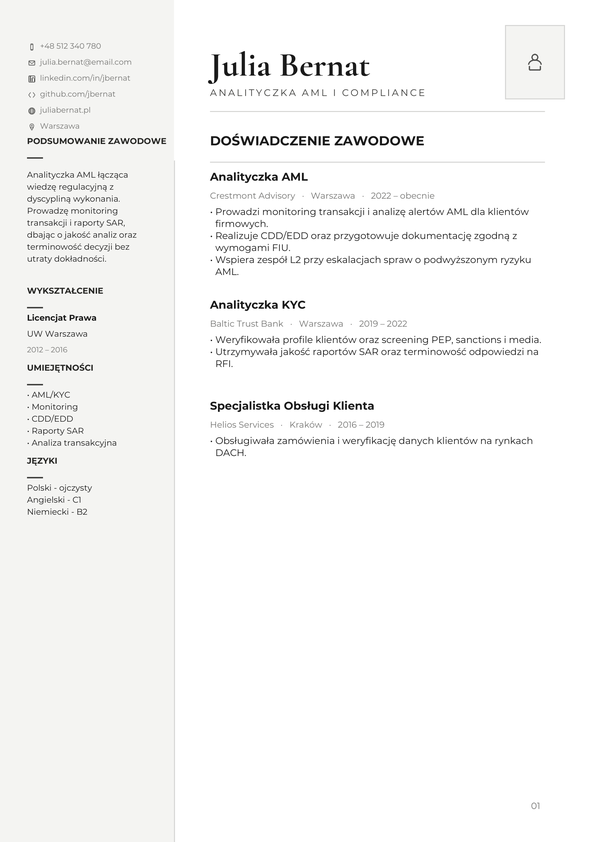
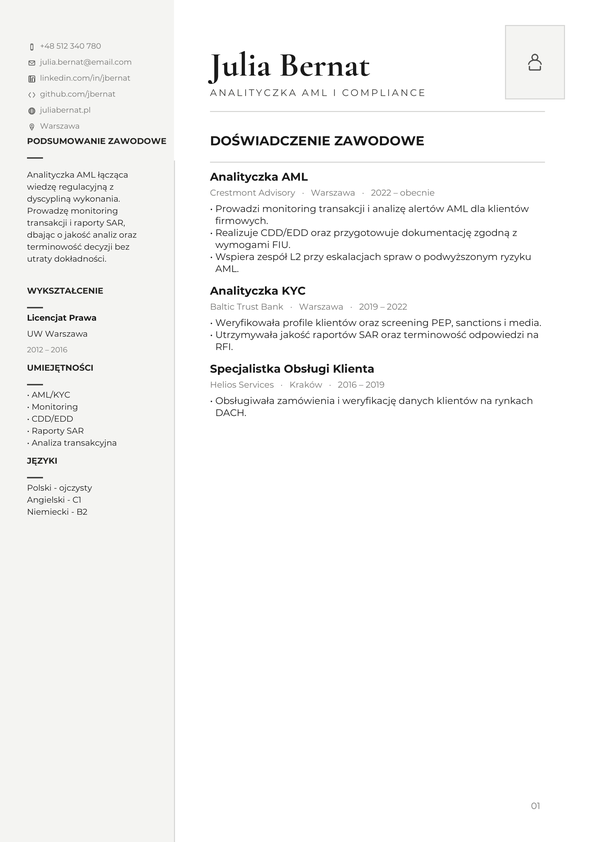
vestige

Changed region(s): [[0.3328, 0.2162, 0.9076, 0.5558]]

diff --git a/frontend/src/templates/vestige.js b/frontend/src/templates/vestige.js
@@ -233,7 +233,7 @@ const VESTIGE_ELEMENTS = [
     "bulletList": false,
     "autoHeight": true,
     "preserveInitialLayout": true,
-    "flowGroup": "record-ea3fde685e10",
+    "flowGroup": "record-5596495821c2",
     "flowRole": "content",
     "flowLane": "sidebar"
   },
@@ -257,7 +257,7 @@ const VESTIGE_ELEMENTS = [
     "bulletList": false,
     "autoHeight": true,
     "preserveInitialLayout": true,
-    "flowGroup": "record-ea3fde685e10",
+    "flowGroup": "record-5596495821c2",
     "flowRole": "content",
     "flowLane": "sidebar"
   },
@@ -281,7 +281,7 @@ const VESTIGE_ELEMENTS = [
     "bulletList": false,
     "autoHeight": true,
     "preserveInitialLayout": true,
-    "flowGroup": "record-ea3fde685e10",
+    "flowGroup": "record-5596495821c2",
     "flowRole": "content",
     "flowLane": "sidebar"
   },
@@ -433,14 +433,14 @@ const VESTIGE_ELEMENTS = [
     "bulletList": false,
     "autoHeight": true,
     "preserveInitialLayout": true,
-    "flowGroup": "record-089b34755dc6",
+    "flowGroup": "record-3601bd24e09e",
     "flowRole": "content"
   },
   {
     "category": "textarea",
     "content": "Crestmont Advisory   ·   Warszawa   ·   2022 – obecnie",
     "left": 210.0,
-    "top": 189.7,
+    "top": 186.7,
     "width": 335.0,
     "height": 12,
     "fontSize": 8.6,
@@ -456,14 +456,14 @@ const VESTIGE_ELEMENTS = [
     "bulletList": false,
     "autoHeight": true,
     "preserveInitialLayout": true,
-    "flowGroup": "record-089b34755dc6",
+    "flowGroup": "record-3601bd24e09e",
     "flowRole": "content"
   },
   {
     "category": "textarea",
     "content": "• Prowadzi monitoring transakcji i analizę alertów AML dla klientów firmowych.\n• Realizuje CDD/EDD oraz przygotowuje dokumentację zgodną z wymogami FIU.\n• Wspiera zespół L2 przy eskalacjach spraw o podwyższonym ryzyku AML.",
     "left": 210.0,
-    "top": 205.7,
+    "top": 202.7,
     "width": 335.0,
     "height": 72,
     "fontSize": 9.5,
@@ -479,14 +479,14 @@ const VESTIGE_ELEMENTS = [
     "bulletList": true,
     "autoHeight": true,
     "preserveInitialLayout": true,
-    "flowGroup": "record-089b34755dc6",
+    "flowGroup": "record-3601bd24e09e",
     "flowRole": "content"
   },
   {
     "category": "textarea",
     "content": "Analityczka KYC",
     "left": 210.0,
-    "top": 298.7,
+    "top": 284.7,
     "width": 335.0,
     "height": 12,
     "fontSize": 11.2,
@@ -502,14 +502,14 @@ const VESTIGE_ELEMENTS = [
     "bulletList": false,
     "autoHeight": true,
     "preserveInitialLayout": true,
-    "flowGroup": "record-7e1413da9a76",
+    "flowGroup": "record-9f4095cee568",
     "flowRole": "content"
   },
   {
     "category": "textarea",
     "content": "Baltic Trust Bank   ·   Warszawa   ·   2019 – 2022",
     "left": 210.0,
-    "top": 317.7,
+    "top": 300.7,
     "width": 335.0,
     "height": 12,
     "fontSize": 8.6,
@@ -525,14 +525,14 @@ const VESTIGE_ELEMENTS = [
     "bulletList": false,
     "autoHeight": true,
     "preserveInitialLayout": true,
-    "flowGroup": "record-7e1413da9a76",
+    "flowGroup": "record-9f4095cee568",
     "flowRole": "content"
   },
   {
     "category": "textarea",
     "content": "• Weryfikowała profile klientów oraz screening PEP, sanctions i media.\n• Utrzymywała jakość raportów SAR oraz terminowość odpowiedzi na RFI.",
     "left": 210.0,
-    "top": 333.7,
+    "top": 316.7,
     "width": 335.0,
     "height": 36,
     "fontSize": 9.5,
@@ -548,14 +548,14 @@ const VESTIGE_ELEMENTS = [
     "bulletList": true,
     "autoHeight": true,
     "preserveInitialLayout": true,
-    "flowGroup": "record-7e1413da9a76",
+    "flowGroup": "record-9f4095cee568",
     "flowRole": "content"
   },
   {
     "category": "textarea",
     "content": "Specjalistka Obsługi Klienta",
     "left": 210.0,
-    "top": 399.7,
+    "top": 362.7,
     "width": 335.0,
     "height": 12,
     "fontSize": 11.2,
@@ -571,14 +571,14 @@ const VESTIGE_ELEMENTS = [
     "bulletList": false,
     "autoHeight": true,
     "preserveInitialLayout": true,
-    "flowGroup": "record-b4976b3fbdc6",
+    "flowGroup": "record-4b9543547ff5",
     "flowRole": "content"
   },
   {
     "category": "textarea",
     "content": "Helios Services   ·   Kraków   ·   2016 – 2019",
     "left": 210.0,
-    "top": 418.7,
+    "top": 378.7,
     "width": 335.0,
     "height": 12,
     "fontSize": 8.6,
@@ -594,14 +594,14 @@ const VESTIGE_ELEMENTS = [
     "bulletList": false,
     "autoHeight": true,
     "preserveInitialLayout": true,
-    "flowGroup": "record-b4976b3fbdc6",
+    "flowGroup": "record-4b9543547ff5",
     "flowRole": "content"
   },
   {
     "category": "textarea",
     "content": "• Obsługiwała zamówienia i weryfikację danych klientów na rynkach DACH.",
     "left": 210.0,
-    "top": 434.7,
+    "top": 394.7,
     "width": 335.0,
     "height": 24,
     "fontSize": 9.5,
@@ -617,7 +617,7 @@ const VESTIGE_ELEMENTS = [
     "bulletList": true,
     "autoHeight": true,
     "preserveInitialLayout": true,
-    "flowGroup": "record-b4976b3fbdc6",
+    "flowGroup": "record-4b9543547ff5",
     "flowRole": "content"
   },
   {

diff --git a/backend/app/services/cv_templates/templates/vestige.py b/backend/app/services/cv_templates/templates/vestige.py
@@ -166,6 +166,17 @@ def _gen_vestige(cv: dict) -> list[dict]:
     # per page, how far every subsequent sidebar element must shift down to
     # absorb the extra height already produced above it on that page.
     sidebar_shift_by_page: dict[int, float] = {}
+    # Mirrors `sidebar_shift_by_page`, but for the main column: shrinking every
+    # main-column textarea's line height to the uniform 12 px value below
+    # changes its `height` by a different amount per box (depends on its own
+    # line count), while every subsequent record's `top` is still Sterling's
+    # ORIGINAL, now-stale cursor position. Left uncorrected, the *authored*
+    # gap between two records becomes visibly uneven from record to record —
+    # only self-healing once the client's own reflow ("Układ CV" / a density
+    # change) repacks every gap from real measured heights. This tracks, per
+    # page, how far every subsequent main-column element must shift to absorb
+    # the height already reclaimed (or added) above it on that page.
+    main_shift_by_page: dict[int, float] = {}
     for source in elements:
         element = dict(source)
         category = element.get("category")
@@ -280,16 +291,21 @@ def _gen_vestige(cv: dict) -> list[dict]:
                 element["left"] = main_left + (original_left - _STERLING_MAIN_L) * main_scale
                 if "width" in element:
                     element["width"] = float(element["width"]) * main_scale
-            # `main_shift` closes the gap Sterling left for its own (dropped)
-            # contact row — see the comment above `main_shift`'s computation.
-            # Only page 1 carries that inflated cursor; continuation pages
-            # start fresh at the generic content top and must stay untouched.
-            if int(element.get("page", 1)) == 1:
-                element["top"] = float(element.get("top", 0)) + main_shift
+            page = int(element.get("page", 1))
+            main_carried_shift = main_shift_by_page.get(page, 0.0)
+            # `main_shift` (page 1 only) closes the gap Sterling left for its
+            # own dropped contact row — see that computation's comment.
+            # `main_carried_shift` absorbs any height already reclaimed by
+            # earlier main-column elements on this page — see the
+            # accumulator's declaration above the loop.
+            element["top"] = float(element.get("top", 0)) + main_carried_shift
+            if page == 1:
+                element["top"] += main_shift
             # Uniform 12 px line height, recomputed at the (possibly rescaled)
             # width so the first render already matches the corrected height —
             # same reasoning as the sidebar recompute above.
             if "height" in element:
+                original_height = float(element["height"])
                 element["lineHeight"] = main_body_line_height
                 element["height"] = Builder.measure_block(
                     element.get("content", ""),
@@ -300,6 +316,7 @@ def _gen_vestige(cv: dict) -> list[dict]:
                     bold=bool(element.get("bold", False)),
                     bulletList=bool(element.get("bulletList", False)),
                 )
+                main_shift_by_page[page] = main_carried_shift + (element["height"] - original_height)
         elif flow_role == "section-chrome" or (
             category == "textarea" and flow_lane != "sidebar" and flow_role not in {"masthead", "masthead-anchor"}
         ):
@@ -307,10 +324,13 @@ def _gen_vestige(cv: dict) -> list[dict]:
                 element["left"] = main_left
                 if "width" in element:
                     element["width"] = main_width
-            # Same page-1-only reclaim as the `grid-member` branch above.
-            if int(element.get("page", 1)) == 1:
-                element["top"] = float(element.get("top", 0)) + main_shift
+            page = int(element.get("page", 1))
+            main_carried_shift = main_shift_by_page.get(page, 0.0)
+            element["top"] = float(element.get("top", 0)) + main_carried_shift
+            if page == 1:
+                element["top"] += main_shift
             if category == "textarea" and "height" in element:
+                original_height = float(element["height"])
                 element["lineHeight"] = main_body_line_height
                 element["height"] = Builder.measure_block(
                     element.get("content", ""),
@@ -321,6 +341,7 @@ def _gen_vestige(cv: dict) -> list[dict]:
                     bold=bool(element.get("bold", False)),
                     bulletList=bool(element.get("bulletList", False)),
                 )
+                main_shift_by_page[page] = main_carried_shift + (element["height"] - original_height)
 
         # Move personal identity to the main column; Sterling's contact row
         # was already dropped above and is rebuilt from `cv` after this loop.

diff --git a/backend/tests/test_vestige_template.py b/backend/tests/test_vestige_template.py
@@ -409,6 +409,61 @@ class VestigeTemplateTests(unittest.TestCase):
         self.assertIn("/template-assets/iconic/vestige/portrait.png", glyph["src"])
         self.assertFalse(glyph["alignWithText"])
 
+    def test_vestige_main_column_record_gaps_are_uniform(self) -> None:
+        """Recomputing every main-column textarea's `height` at the uniform
+        12 px line height (see the 12px-line-height test above) shrinks each
+        box by a different amount depending on its own line count, while
+        every subsequent record's `top` is still Sterling's original, now-
+        stale cursor position — left uncorrected, the *authored* gap between
+        one record and the next becomes visibly uneven from record to record,
+        only self-healing once the client's own reflow ("Układ CV") repacks
+        every gap from real measured heights. Every consecutive pair of
+        page-1 main-column textareas, sorted by `top`, must already show one
+        of exactly two gap sizes: a small one between fields of the SAME
+        record (title→meta→body) and a larger one between two records —
+        never a third, arbitrary value.
+        """
+        long_bullets = ["Punkt numer jeden z dłuższym opisem.", "Punkt numer dwa.", "Punkt trzeci z opisem."]
+        elements = generate_resume(
+            "vestige",
+            {
+                "name": "Kamil Wrzochalski",
+                "title": "AML Analyst",
+                "email": "k@example.com",
+                "phone": "+48 792 575 970",
+                "summary": "Starszy analityk AML/KYC.",
+                "experience": [
+                    {"title": "Senior AML Analyst", "company": "PwC", "period": "06/2025 – obecnie",
+                     "bullets": long_bullets},
+                    {"title": "Customer Service Representative", "company": "Medtronic", "period": "01/2025 – 05/2025",
+                     "bullets": ["Jeden krótki punkt."]},
+                    {"title": "AML Analyst", "company": "Citibank", "period": "07/2022 – 12/2024",
+                     "bullets": long_bullets},
+                    {"title": "Customer Service Specialist", "company": "Amazon", "period": "08/2020 – 06/2022",
+                     "bullets": long_bullets + ["Jeszcze jeden punkt na końcu."]},
+                ],
+                "education": [],
+                "skills": ["Strategia"],
+                "languages": [],
+            },
+        )
+        main_bodies = [
+            element for element in elements
+            if element.get("page", 1) == 1 and element["category"] == "textarea"
+            and element.get("flowLane") != "sidebar"
+            and element.get("flowRole") not in {"masthead", "masthead-anchor"}
+        ]
+        main_bodies.sort(key=lambda element: element["top"])
+        self.assertGreater(len(main_bodies), 4, "fixture must produce enough records to compare gaps")
+        gaps = set()
+        for earlier, later in zip(main_bodies, main_bodies[1:]):
+            gap = round(later["top"] - (earlier["top"] + earlier["height"]), 1)
+            gaps.add(gap)
+        self.assertLessEqual(
+            len(gaps), 2,
+            f"expected at most 2 distinct gap sizes (same-record, between-record), got {sorted(gaps)!r}",
+        )
+
 
 if __name__ == "__main__":
     unittest.main()

diff --git a/README.md b/README.md
@@ -848,10 +848,11 @@ A subsequent investigation into a reported "page 2 renders with no sidebar rail 
 - **Stale name/title `height` understated the masthead's real size.** `_gen_vestige` changed the name/title textareas' `fontSize`/`lineHeight` to Vestige's own, larger values but never recomputed their `height`, which stayed at Sterling's smaller, original measurement (30/34 for the name, 11.5/15 for the title) — a box could even author a `height` shorter than its own single-line `lineHeight`. `_gen_vestige` now recomputes both via `Builder.measure_block`, the same treatment every other recomputed box in this generator already gets.
 - **The masthead-closing divider sat at a fixed `top=132`, disconnected from the real name/title stack.** Because Vestige drops Sterling's centered contact row from the main column (contacts move to the rebuilt sidebar rail) but never reclaimed the vertical space Sterling's cursor had reserved for it, the gap between this fixed divider and the main column's first section heading was really an arbitrary, content-dependent leftover — bigger for CVs with more contact channels, since more channels push Sterling's own cursor down further. `frontend/src/utils/sectionStructure.js`'s `resolveFlowStart` (used by every repack: density change, reorder, add/remove section, lane transfer) treats an "authored gap" outside a tuned 6–56 pt sane range as corruption and silently recomputes a shorter one — so on a CV with enough contact channels, *any* repack action silently yanked the entire main column up by tens of points. `_gen_vestige` now derives the divider's position from the name/title stack's real (recomputed) bottom plus a small fixed gap, and re-anchors the main column's first page-1 heading (and every other main-column element on page 1) to sit a fixed, comfortable distance below that divider — closing Sterling's leftover gap once, consistently, instead of inheriting its arbitrary size.
 - **`resolveFlowStart`'s masthead-height detection, and `packSidebarLane`'s `resolveSidebarPhotoFloor`, both misread a *main-column* photo slot as sidebar/masthead-defining content.** Both functions use a heading-relative "same column" heuristic (`sameColumnAsHeading`) that is deliberately biased toward treating anything at or to the right of a heading as the same column — correct for single-column templates that park chrome far to the right of a narrow heading (Nova's own masthead photo, Cinder's marker), wrong for Vestige, whose masthead photo sits at `left=505` while the sidebar's own heading sits at `left=27`. `resolveSidebarPhotoFloor` now also requires the candidate photo's own `left` to be within a real rail's width (≤260 pt from the page edge) before treating it as "the rail's own photo well"; `resolveFlowStart` now excludes `photoSlot` elements from its masthead-height scan entirely (safe for Nova too — its own closing rule is authored from `max(photo_bottom, contact_bottom) + 18`, so it already sits at or below the photo regardless).
+- **Main-column record gaps looked uneven at first render, only becoming uniform after a manual "Układ CV" repack.** Recomputing every main-column textarea's `height` at the uniform 12 px line height (see the 12 px line-height change above) shrinks each box by a different amount depending on its own line count — but every subsequent record's `top` is still Sterling's original cursor position, authored for the OLD, larger heights. Left uncorrected, the visible gap between one record and the next grew unevenly (a body with 4 bullet lines lost more height than a title line lost none), so consecutive gaps in the same document could read 71 px, then 14 px, then 47 px, even though the generator intended one consistent rhythm — only fixed once the client's own reflow repacked every gap from real measured heights. `_gen_vestige` now tracks this the same way it already does for the sidebar: a per-page running total of how much height every earlier main-column textarea has already gained or lost, carried into every later element's `top` so record spacing is already consistent (one size within a record, one size between records) on the very first render.
 
 Implementation:
 
-- `backend/app/services/cv_templates/templates/vestige.py`, function `_gen_vestige` — semantic geometry transformation over the shared deterministic sidebar planner; rebuilds the contact rail (`_place_stacked_icon_contacts`) and masthead identity (`tag_masthead_identity`, `band_top` pinned to the title's own `top` so `blockPt` is `0`) directly from `cv`; excludes and proportionally re-translates `grid-member` cells; aligns the sidebar's first section with the main column's first section by computing their top delta instead of a fixed offset; recomputes both columns' textarea `height` at a uniform 12 px line height and carries the sidebar's resulting per-page cumulative shift into every later sidebar element's `top`; appends the empty-state photo-slot well/frame/glyph triplet
+- `backend/app/services/cv_templates/templates/vestige.py`, function `_gen_vestige` — semantic geometry transformation over the shared deterministic sidebar planner; rebuilds the contact rail (`_place_stacked_icon_contacts`) and masthead identity (`tag_masthead_identity`, `band_top` pinned to the title's own `top` so `blockPt` is `0`) directly from `cv`; excludes and proportionally re-translates `grid-member` cells; aligns the sidebar's first section with the main column's first section by computing their top delta instead of a fixed offset; recomputes both columns' textarea `height` at a uniform 12 px line height and carries the resulting per-page cumulative shift into every later element's `top` in BOTH columns; appends the empty-state photo-slot well/frame/glyph triplet
 - `frontend/src/templates/vestige.js`, exported `vestigeTemplate` — editable A4 starter regenerated from the backend output
 - `frontend/src/templates/index.js`, registry entry `vestige` (`tier: "paid"`, `layouts: ["sidebar", "icons"]`)
 - `backend/template_assets/iconic/vestige/` and `scripts/generate_iconic_icons.py` — restrained graphite contact glyphs, plus the new `portrait.png` placeholder glyph (`THEME_EXTRA_ICONS["vestige"]`)
@@ -866,7 +867,7 @@ Tests:
 
 - `frontend/src/templates/vestige.test.js` — rail width, main-column masthead, contact icon placement, section-rule geometry, and the photo-slot triplet's geometry/tags
 - `frontend/src/utils/sectionStructure.test.js` — `packSidebarLane` ignoring a masthead photo slot in the main column, not just the sidebar's own rail photo
-- `backend/tests/test_vestige_template.py` — registry metadata, generated sidebar/main-column ownership, the 13 / 8.4 px heading type scale, the "stacked"-mode contact-band descriptor, the `mastheadIdentity` anchor with `blockPt == 0` and a `null` `contactBandId`, non-colliding `grid-member` languages cells when languages spill into the main column, non-overlapping sidebar elements after narrowing rewraps a long summary onto more lines than Sterling originally planned for, the sidebar's first section aligning with the main column's first section, a uniform 12 px line height on main-column body copy, the photo-slot well/frame/glyph triplet's geometry and tags, and the masthead divider tracking the name/title stack's real (recomputed) height
+- `backend/tests/test_vestige_template.py` — registry metadata, generated sidebar/main-column ownership, the 13 / 8.4 px heading type scale, the "stacked"-mode contact-band descriptor, the `mastheadIdentity` anchor with `blockPt == 0` and a `null` `contactBandId`, non-colliding `grid-member` languages cells when languages spill into the main column, non-overlapping sidebar elements after narrowing rewraps a long summary onto more lines than Sterling originally planned for, the sidebar's first section aligning with the main column's first section, a uniform 12 px line height on main-column body copy, the photo-slot well/frame/glyph triplet's geometry and tags, the masthead divider tracking the name/title stack's real (recomputed) height, and main-column record gaps collapsing to at most two distinct sizes (same-record, between-record) across a four-job experience list
 
 ### Nova editorial masthead template
 
@@ -2677,10 +2678,11 @@ Kolejne dochodzenie w sprawie zgłoszonego błędu „strona 2 renderuje się be
 - **Nieaktualna `height` imienia/stanowiska zaniżała rzeczywisty rozmiar mastheadu.** `_gen_vestige` zmieniał `fontSize`/`lineHeight` textarea imienia i stanowiska na własne, większe wartości Vestige, ale nigdy nie przeliczał ich `height`, która pozostawała przy mniejszym, oryginalnym pomiarze Sterlinga (30/34 dla imienia, 11,5/15 dla stanowiska) — boks mógł mieć nawet `height` mniejszą niż jego własna, jednoliniowa `lineHeight`. `_gen_vestige` przelicza teraz obie wartości przez `Builder.measure_block`, tak samo jak każdy inny przeliczany boks w tym generatorze.
 - **Linia zamykająca masthead siedziała na stałym `top=132`, oderwanym od rzeczywistego stosu imię/stanowisko.** Ponieważ Vestige usuwa wycentrowany wiersz kontaktu Sterlinga z kolumny głównej (kontakty przenoszą się do odbudowanego panelu sidebara), ale nigdy nie odzyskuje miejsca w pionie, które kursor Sterlinga dla niego zarezerwował, odstęp między tą stałą linią a pierwszym nagłówkiem kolumny głównej był w istocie dowolną, zależną od treści pozostałością — większą dla CV z większą liczbą kanałów kontaktowych, bo więcej kanałów przesuwa własny kursor Sterlinga dalej w dół. `resolveFlowStart` z `frontend/src/utils/sectionStructure.js` (używane przy każdym przepakowaniu: zmiana gęstości, zmiana kolejności, dodanie/usunięcie sekcji, transfer między kolumnami) traktuje „autoryzowany odstęp" spoza dostrojonego zakresu 6–56 pkt jako uszkodzenie i po cichu przelicza krótszy — więc dla CV z wystarczającą liczbą kanałów kontaktowych *każde* przepakowanie po cichu przesuwało całą kolumnę główną w górę o kilkadziesiąt punktów. `_gen_vestige` wyprowadza teraz pozycję linii z rzeczywistego (przeliczonego) dołu stosu imię/stanowisko plus mały, stały odstęp, i ponownie zakotwicza pierwszy nagłówek kolumny głównej na stronie 1 (oraz każdy inny element kolumny głównej na stronie 1) w stałej, komfortowej odległości pod tą linią — zamykając pozostałość po Sterlingu raz, spójnie, zamiast dziedziczyć jej dowolny rozmiar.
 - **Zarówno wykrywanie wysokości mastheadu w `resolveFlowStart`, jak i `resolveSidebarPhotoFloor` w `packSidebarLane`, błędnie odczytywały slot na zdjęcie z KOLUMNY GŁÓWNEJ jako treść definiującą sidebar/masthead.** Obie funkcje używają heurystyki „ta sama kolumna co nagłówek" (`sameColumnAsHeading`), celowo obciążonej w stronę traktowania wszystkiego na wysokości lub na prawo od nagłówka jako tej samej kolumny — poprawne dla szablonów jednokolumnowych, które umieszczają elementy dekoracyjne daleko na prawo od wąskiego nagłówka (własne zdjęcie mastheadu Novy, znacznik Cindera), błędne dla Vestige, którego zdjęcie mastheadu siedzi na `left=505`, podczas gdy własny nagłówek sidebara siedzi na `left=27`. `resolveSidebarPhotoFloor` wymaga teraz dodatkowo, aby `left` kandydującego zdjęcia mieściło się w szerokości prawdziwego panelu (≤260 pkt od krawędzi strony), zanim uzna je za „własne zdjęcie panelu"; `resolveFlowStart` całkowicie wyklucza teraz elementy `photoSlot` ze swojego skanu wysokości mastheadu (bezpieczne również dla Novy — jej własna linia zamykająca jest tworzona z `max(photo_bottom, contact_bottom) + 18`, więc i tak siedzi na wysokości zdjęcia lub poniżej niej).
+- **Odstępy między rekordami w kolumnie głównej wyglądały nierówno przy pierwszym renderze, stając się jednolite dopiero po ręcznym przepakowaniu przez "Układ CV".** Przeliczenie `height` każdej textarea kolumny głównej przy jednolitej wysokości linii 12 px (patrz zmiana wysokości linii powyżej) zmniejsza każdy boks o inną wartość, zależną od liczby jego własnych linii — ale `top` każdego kolejnego rekordu wciąż jest oryginalną pozycją kursora Sterlinga, autoryzowaną dla STARYCH, większych wysokości. Bez korekty widoczny odstęp między jednym rekordem a kolejnym rósł nierówno (treść z 4 liniami punktorów traciła więcej wysokości niż linia tytułu, która nie traciła nic), więc kolejne odstępy w tym samym dokumencie mogły wynosić 71 px, potem 14 px, potem 47 px, mimo że generator zamierzał jeden spójny rytm — naprawiało się to tylko, gdy własny reflow klienta przepakowywał każdy odstęp na podstawie rzeczywiście zmierzonych wysokości. `_gen_vestige` śledzi to teraz tak samo, jak już robi to dla sidebara: bieżącą, skumulowaną (per strona) sumę tego, ile wysokości zyskał lub stracił każdy wcześniejszy element textarea kolumny głównej, przenoszoną do `top` każdego kolejnego elementu, więc odstępy między rekordami są już spójne (jeden rozmiar w obrębie rekordu, jeden między rekordami) już przy pierwszym renderze.
 
 Implementacja:
 
-- `backend/app/services/cv_templates/templates/vestige.py`, funkcja `_gen_vestige` — semantyczna transformacja geometrii nad współdzielonym, deterministycznym planerem sidebara; odbudowuje panel kontaktowy (`_place_stacked_icon_contacts`) i tożsamość mastheadu (`tag_masthead_identity`, `band_top` przypięte do własnej `top` stanowiska, więc `blockPt` wynosi `0`) bezpośrednio z `cv`; wyklucza i proporcjonalnie przesuwa komórki `grid-member`; wyrównuje pierwszą sekcję sidebara z pierwszą sekcją kolumny głównej, obliczając różnicę ich górnych krawędzi zamiast stosować stały offset; przelicza `height` textarea obu kolumn przy jednolitej wysokości linii 12 px i przenosi wynikające z tego skumulowane przesunięcie sidebara (per strona) do `top` każdego kolejnego elementu sidebara; dołącza trójkę well/frame/glif pustego slotu na zdjęcie; wyprowadza pozycję linii zamykającej masthead z rzeczywistego dołu stosu imię/stanowisko i ponownie zakotwicza kolumnę główną strony 1 pod nią
+- `backend/app/services/cv_templates/templates/vestige.py`, funkcja `_gen_vestige` — semantyczna transformacja geometrii nad współdzielonym, deterministycznym planerem sidebara; odbudowuje panel kontaktowy (`_place_stacked_icon_contacts`) i tożsamość mastheadu (`tag_masthead_identity`, `band_top` przypięte do własnej `top` stanowiska, więc `blockPt` wynosi `0`) bezpośrednio z `cv`; wyklucza i proporcjonalnie przesuwa komórki `grid-member`; wyrównuje pierwszą sekcję sidebara z pierwszą sekcją kolumny głównej, obliczając różnicę ich górnych krawędzi zamiast stosować stały offset; przelicza `height` textarea obu kolumn przy jednolitej wysokości linii 12 px i przenosi wynikające z tego skumulowane przesunięcie (per strona) do `top` każdego kolejnego elementu w OBU kolumnach; dołącza trójkę well/frame/glif pustego slotu na zdjęcie; wyprowadza pozycję linii zamykającej masthead z rzeczywistego dołu stosu imię/stanowisko i ponownie zakotwicza kolumnę główną strony 1 pod nią
 - `frontend/src/templates/vestige.js`, eksport `vestigeTemplate` — edytowalny starter A4 regenerowany z wyniku backendu
 - `frontend/src/templates/index.js`, wpis rejestru `vestige` (`tier: "paid"`, `layouts: ["sidebar", "icons"]`)
 - `backend/template_assets/iconic/vestige/` oraz `scripts/generate_iconic_icons.py` — stonowane grafitowe glify kontaktowe, plus nowy glif zastępczy `portrait.png` (`THEME_EXTRA_ICONS["vestige"]`)
@@ -2695,7 +2697,7 @@ Testy:
 
 - `frontend/src/templates/vestige.test.js` — szerokość panelu, masthead w głównej kolumnie, położenie ikon kontaktu, geometria linii sekcji, oraz geometria/tagi trójki slotu na zdjęcie
 - `frontend/src/utils/sectionStructure.test.js` — `packSidebarLane` ignorujące slot na zdjęcie w kolumnie głównej, nie tylko własne zdjęcie panelu sidebara
-- `backend/tests/test_vestige_template.py` — metadane rejestru, własność sidebara i głównej kolumny w wygenerowanym układzie, skala typograficzna nagłówków 13 / 8,4 px, deskryptor paska kontaktowego w trybie "stacked", anchor `mastheadIdentity` z `blockPt == 0` i `null` w `contactBandId`, brak kolizji komórek `grid-member` języków, gdy trafiają do kolumny głównej, brak nakładania się elementów sidebara, gdy zawężenie zawija długie podsumowanie na więcej linii, niż pierwotnie zakładał Sterling, wyrównanie pierwszej sekcji sidebara z pierwszą sekcją kolumny głównej, jednolita wysokość linii 12 px w treści kolumny głównej, geometria i tagi trójki well/frame/glif slotu na zdjęcie, oraz linia mastheadu podążająca za rzeczywistą (przeliczoną) wysokością stosu imię/stanowisko
+- `backend/tests/test_vestige_template.py` — metadane rejestru, własność sidebara i głównej kolumny w wygenerowanym układzie, skala typograficzna nagłówków 13 / 8,4 px, deskryptor paska kontaktowego w trybie "stacked", anchor `mastheadIdentity` z `blockPt == 0` i `null` w `contactBandId`, brak kolizji komórek `grid-member` języków, gdy trafiają do kolumny głównej, brak nakładania się elementów sidebara, gdy zawężenie zawija długie podsumowanie na więcej linii, niż pierwotnie zakładał Sterling, wyrównanie pierwszej sekcji sidebara z pierwszą sekcją kolumny głównej, jednolita wysokość linii 12 px w treści kolumny głównej, geometria i tagi trójki well/frame/glif slotu na zdjęcie, linia mastheadu podążająca za rzeczywistą (przeliczoną) wysokością stosu imię/stanowisko, oraz odstępy między rekordami w kolumnie głównej zbiegające się do co najwyżej dwóch rozmiarów (w obrębie rekordu, między rekordami) na liście czterech stanowisk
 
 ### Szablon redakcyjny Nova
 
